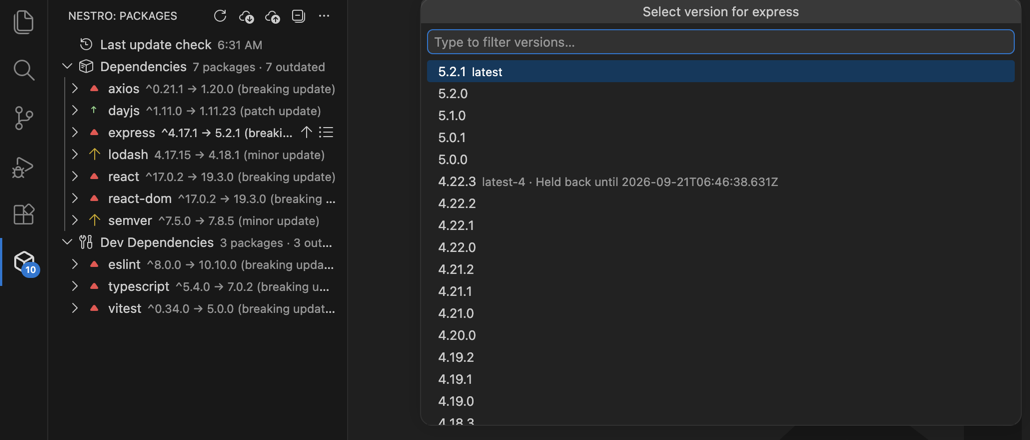
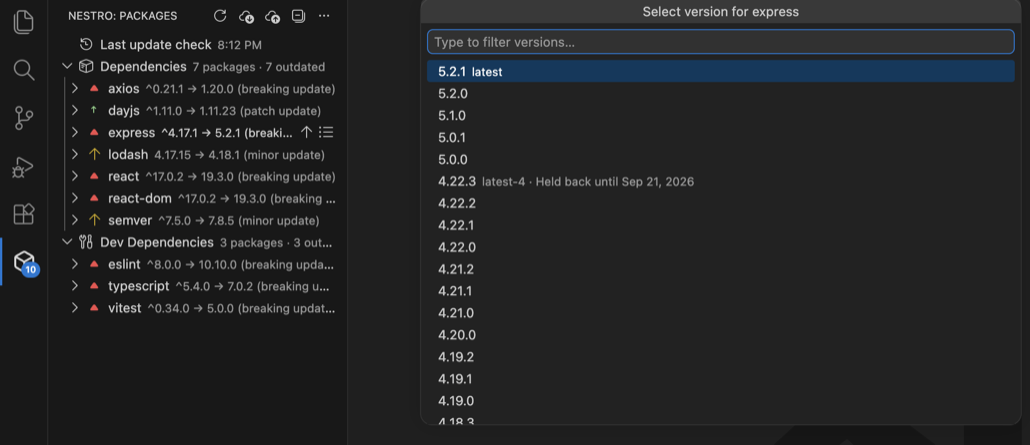
docs(images): recapture screenshots with the filter row and audit markers
Recapture the four README frames with scripts/screenshots on the current
build: the filter frame now shows the "Filter: Patch" status row, the audit
frame shows the vulnerability marker on the directly affected rows, and the
version picker shows the held-back date in readable form. Update the frame
sizes and descriptions in images/SCREENSHOTS.md and the two affected alt
texts in the README.

diff --git a/images/SCREENSHOTS.md b/images/SCREENSHOTS.md
@@ -52,10 +52,10 @@ the public registry returned on the capture date (2026-09-18) and will drift.
 
 | File | Size (px) | What the frame shows | How the state was produced |
 |---|---|---|---|
-| `overview.png` | 348×346 | Sidebar after an update check: toolbar with Refresh, Check for Updates, Update All and the `…` overflow; the update-count badge on the Activity Bar icon; the "Last update check" status row; Dependencies and Dev Dependencies groups with the update type per row | **Check for Updates**, wait for the check to finish |
-| `filters.png` | 1030×186 | The **Select Filter** QuickPick with All / Has Updates / Patch / Minor / Breaking and their live counts, Patch active; the tree behind it filtered to the single patch update | select the Patch filter, then open **Select Filter** again |
-| `pick-version.png` | 1030×440 | The **Pick Version...** QuickPick for `express`: version list with the `latest` tag and a held-back entry; the focused row shows its two inline actions, Update Package and Pick Version | focus the `express` row, run **Pick Version...** for it |
-| `audit.png` | 348×370 | Sidebar after **Run Security Audit**: the "Audit complete · 6 vulnerable packages" status row above the package groups | **Run Security Audit**, wait for the audit to finish |
+| `overview.png` | 348×333 | Sidebar after an update check: toolbar with Refresh, Check for Updates, Update All and the `…` overflow; the update-count badge on the Activity Bar icon; the "Last update check" status row; Dependencies and Dev Dependencies groups with the update type per row | **Check for Updates**, wait for the check to finish |
+| `filters.png` | 1030×173 | The **Select Filter** QuickPick with All / Has Updates / Patch / Minor / Breaking and their live counts, Patch active; the tree behind it filtered to the single patch update, with the "Filter: Patch · 1 of 10" status row above the group | select the Patch filter, then open **Select Filter** again |
+| `pick-version.png` | 1030×445 | The **Pick Version...** QuickPick for `express`: version list with the `latest` tag and a held-back entry with its eligibility date; the focused row shows its two inline actions, Update Package and Pick Version | focus the `express` row, run **Pick Version...** for it |
+| `audit.png` | 348×355 | Sidebar after **Run Security Audit**: the "Audit complete · 6 vulnerable packages" status row above the package groups, and the vulnerability marker on the three directly affected rows (`axios`, `lodash`, `vitest`) | **Run Security Audit**, wait for the audit to finish |
 
 The sizes above are from the run that produced the current `images/*.png`. `scripts/screenshots/capture.mjs`
 crops each frame's bottom edge to the content it actually captured, so a later run's sizes come from
@@ -73,18 +73,12 @@ is 300 px wide in every file.
   query is active), Run Install, Run Security Audit, Pin All Versions, Settings.
 - The row context menu: Open on npmjs.com, Copy Package Name, Switch to dev/dep, Toggle version
   pin (only for rows whose spec can be pinned), Remove Package.
+- The "Search: …" status row (no search query is active in any frame); it appears above the
+  groups in the same way as the filter row in `filters.png`.
 - The active filter or search query as the *view description* — the compact text next to the view
   title. VS Code renders it only in the view's own pane header, and while Nestro is the only view
   in its container that header is merged into the sidebar title, so the description text does not
   appear in the frames.
-- The "Filter: Patch · 1 of N" status row above the package groups, which is what actually
-  communicates the filter/search state in the default layout. `filters.png` was captured before
-  this row existed and predates it; it will appear in the frame after the next recapture.
-- Row vulnerability badges on `audit.png`. npm's audit report v2 (npm 7 and later) carries no
-  resolved-version field of its own, but Nestro resolves it from an advisory's `nodes` path when
-  that path is a single direct `node_modules/<name>` install; `axios`, `lodash`, and `vitest` in
-  this fixture qualify. This frame was captured before that resolution existed and still shows no
-  badges — it needs recapturing.
 
 ## Reproducing
 

diff --git a/README.md b/README.md
@@ -175,13 +175,13 @@ owning workspace folder; the nearest directory with a recognized signal wins, an
 ![Nestro sidebar after an update check: packages grouped into Dependencies and Dev Dependencies, each row showing its update type and target version, with the update-count badge on the Activity Bar icon](images/overview.png)
 
 ### Filter by update type
-![Filter picker for narrowing the package list by update type, with a live count per filter](images/filters.png)
+![Filter picker for narrowing the package list by update type, with a live count per filter and the active filter shown as a status row in the tree](images/filters.png)
 
 ### Pick a specific version
 ![Version picker listing the available versions of express, with the row's inline Update and Pick Version actions visible](images/pick-version.png)
 
 ### Security audit
-![Sidebar after Run Security Audit, with the status row reporting the number of vulnerable packages](images/audit.png)
+![Sidebar after Run Security Audit, with the status row reporting the number of vulnerable packages and a warning marker on each directly affected package row](images/audit.png)
 
 ## Settings
 
